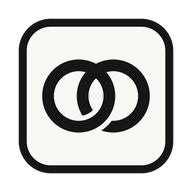
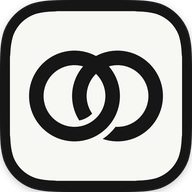
koligilo 0.7.1: ikona z ramką równoległą do maski macOS 26+
System nakłada na ikonę własną maskę i skos, więc ramka z zaokrąglonego
prostokąta wychodziła nierówna (gruba na bokach, cienka u góry i na rogach).
Teraz ramka jest liczona od kształtu maski (macapp/icon-mask.png), ikona
wypełnia całą kratkę, a mac-app.sh bierze zacommitowany macapp/icon.png.

diff --git a/macapp/icon.py b/macapp/icon.py
@@ -3,29 +3,56 @@
 
     python3 macapp/icon.py OUT.png   # 1024×1024, z niej iconutil robi .icns
 
-Geometria jak web/icon.svg (siatka 64): kafelek 3..61, ogniwa (25.5,32) i (38.5,32), r 11.5.
+Wynik jest zacommitowany jako macapp/icon.png i to jego bierze scripts/mac-app.sh
+(na Macu nie ma numpy/scipy). Ten skrypt uruchamia się tylko przy zmianie ikony.
+
+Ikona jest pełną kratką 1024 px (bez przezroczystego marginesu): macOS 26+ sam
+nakłada na każdą ikonę swoją maskę, normalizuje jej rozmiar i dodaje cień oraz skos
+u krawędzi. Własna ramka w kształcie zwykłego prostokąta z zaokrągleniem nie jest
+współśrodkowa z tą maską — na bokach wychodzi gruba, na rogach i u góry cienka.
+Dlatego ramka jest tu liczona równolegle do maski systemu: macapp/icon-mask.png to
+jej kształt (kanał alfa renderu czarnego kwadratu przez NSWorkspace.icon(forFile:),
+przycięty do bryły), a papier to wnętrze maski cofnięte o stałą odległość.
+Góra i dół dostają ramkę grubszą o RULE_V − RULE, bo skos systemu zjada tam
+ok. 10% czerni.
 """
+import os
 import sys
+
+import numpy as np
 from PIL import Image, ImageDraw
+from scipy.ndimage import distance_transform_edt
 
 S = 1024
-SS = 4                     # nadpróbkowanie zamiast antyaliasingu, którego ImageDraw nie ma
+SS = 2                     # nadpróbkowanie zamiast antyaliasingu, którego ImageDraw nie ma
 PAPER = (247, 247, 244)
 INK = (22, 22, 22)
+RULE = 53                  # grubość ramki na bokach (px na 1024) = 3/58 kafelka jak w web/icon.svg
+RULE_V = 60                # u góry i u dołu
+
+MASK = os.path.join(os.path.dirname(os.path.abspath(__file__)), "icon-mask.png")
 
 
 def main(out):
     big = S * SS
-    k = 824 * SS / 58          # siatka 64 → kafelek 824 px (siatka ikon macOS)
-    o = 100 * SS - 3 * k
-    P = lambda v: o + v * k
+    mask = np.array(Image.open(MASK).convert("L").resize((big, big), Image.LANCZOS)) > 127
+    # pad: krawędź kratki też jest krawędzią maski
+    dist = distance_transform_edt(np.pad(mask, 1))[1:-1, 1:-1]
 
-    im = Image.new("RGBA", (big, big), (0, 0, 0, 0))
+    # waga 1 przy górze/dole, 0 przy bokach; grubość ramki płynnie między RULE a RULE_V
+    t = np.abs(np.linspace(-1, 1, big))
+    wv = t[:, None] ** 4 / (t[:, None] ** 4 + t[None, :] ** 4 + 1e-9)
+    thick = (RULE + (RULE_V - RULE) * wv) * SS
+
+    px = np.zeros((big, big, 4), np.uint8)
+    px[..., :3] = INK
+    px[..., 3] = 255
+    px[dist > thick, :3] = PAPER
+    im = Image.fromarray(px, "RGBA")
     d = ImageDraw.Draw(im)
-    rule = round(3 * k)
-    d.rounded_rectangle((P(3), P(3), P(61), P(61)), round(12 * k), fill=INK)
-    d.rounded_rectangle((P(3) + rule, P(3) + rule, P(61) - rule, P(61) - rule),
-                        round(12 * k) - rule, fill=PAPER)
+
+    k = big / 58               # siatka 64 jak web/icon.svg: kafelek 3..61 = cała kratka
+    P = lambda v: big / 2 + (v - 32) * k
 
     def ring(cx, cy, r, w):
         # ImageDraw rysuje obrys do środka ramki — poszerzamy ją o pół grubości

diff --git a/main.go b/main.go
@@ -12,7 +12,7 @@ import (
 	"time"
 )
 
-var Version = "0.7.0"
+var Version = "0.7.1"
 
 const usage = `koligilo %s — synchronizacja ustawień KOReadera
 

diff --git a/docs/ARCHITEKTURA.md b/docs/ARCHITEKTURA.md
@@ -112,7 +112,7 @@ make e2e     # serwer + dwa symulowane czytniki przez prawdziwe HTTP
 make dist    # binarki: macOS arm64/amd64, Linux amd64/arm64, Windows amd64 + zip pluginu
 ```
 
-## Stan (0.7.0)
+## Stan (0.7.1)
 
 - [x] Własny serwer, parowanie kodem, grupy per urządzenie, auto-sync po Wi-Fi
 - [x] Konta w panelu: kosync, Wallabag, konta w chmurze (Dropbox z logowaniem przez kod, WebDAV, FTP), gdzie statystyki i słowniczek trzymają bazę
